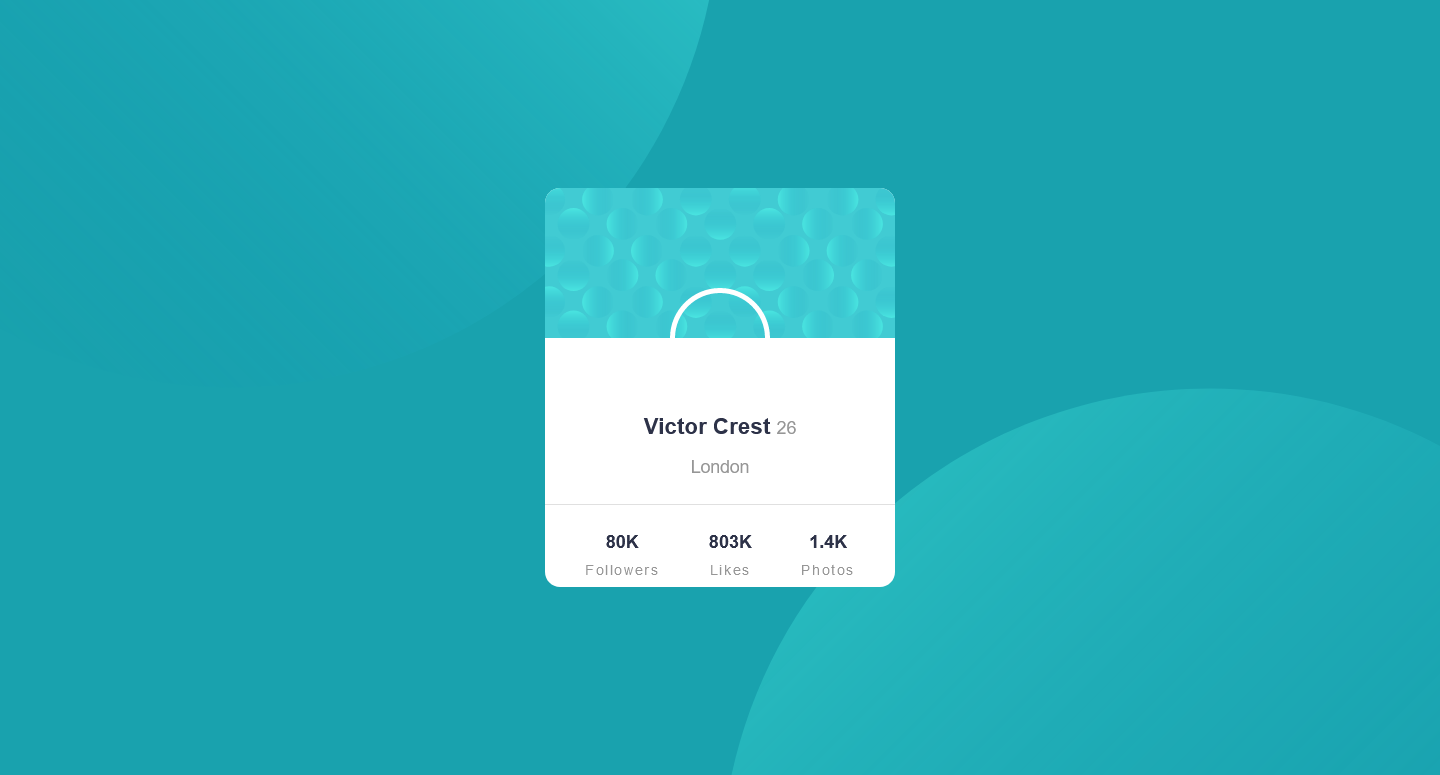
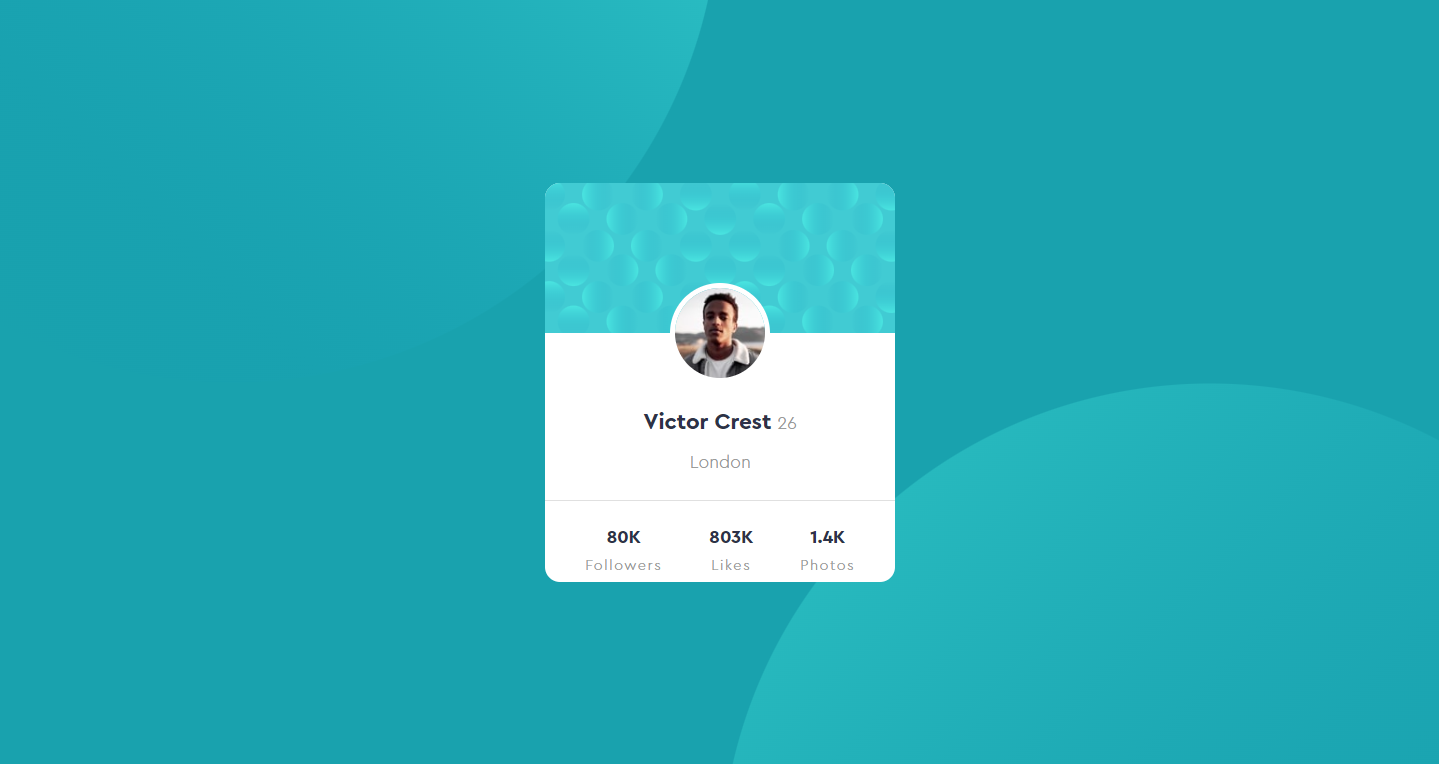
okk

Changed region(s): [[0.3975, 0.6924, 0.6115, 0.7827], [0.4587, 0.3613, 0.5504, 0.5118], [0.4281, 0.5419, 0.5504, 0.6322]]

diff --git a/index.html b/index.html
@@ -92,11 +92,11 @@
           
         </div>
 
-        <div class="row">
-          <div class="col-lg-4">
+        <div class="row about-flex">
+          <div class="col-lg-4 border-right">
             <img src="assets/img/profile picture.jpg" class="img-fluid rounded-circle" alt="">
           </div>
-          <div class="col-lg-8 pt-5 mt-5 pt-lg-0 content">
+          <div class="col-lg-8 pt-2 pt-lg-0 content">
             <h3>Web Designer &amp; Web Developer.</h3>
             <p class="fst-italic">
               Clients satisfaction is my first priority
@@ -214,7 +214,7 @@
               <img src="assets/img/p3.jpg" class="img-fluid" alt="">
               <div class="portfolio-info">
                 <h4>projects 4</h4>
-                <p>Protfolewo website</p>
+                <p>Education Website</p>
                 <div class="portfolio-links">
                   <!-- <a href="assets/img/portfolio/portfolio-4.jpg" data-gallery="portfolioGallery" class="portfolio-lightbox" title="Card 2"><i class="bx bx-plus"></i></a> -->
                   <a href="https://developer-tanvir.github.io/SuperMate/ " target="_blank" data-glightbox="" title="Portfolio Details"><i class="bx bx-link"></i></a>
@@ -230,17 +230,17 @@
 
           <div class="col-lg-4 col-md-6 portfolio-item filter-web  ">
             <div class="portfolio-wrap">
-              <img src="assets/img/protfolewo5.png" class="img-fluid" alt="">
+              <img src="assets/img/p5.jpg" class="img-fluid" alt="">
               <div class="portfolio-info">
                 <h4>projects 5</h4>
-                <p>contect form</p>
+                <p>Real Estate Websites</p>
                 <div class="portfolio-links">
                   <!-- <a href="assets/img/portfolio/portfolio-5.jpg" data-gallery="portfolioGallery" class="portfolio-lightbox" title="Web 2"><i class="bx bx-plus"></i></a> -->
-                  <a href=" https://developer-tanvir.github.io/glass-contact-form/" target="_blank" class="" data-glightbox="" title="Portfolio Details"><i class="bx bx-link"></i></a>
+                  <a href=" https://developer-tanvir.github.io/ABAgency/" target="_blank" class="" data-glightbox="" title="Portfolio Details"><i class="bx bx-link"></i></a>
                 </div>
                 <div class="link">
-                  <div class="code"><a target="_blank" href="https://github.com/Developer-Tanvir/food-website-Resto">Code</a></div>
-                  <div class="live-link"> <a target="_blank" href="https://developer-tanvir.github.io/food-website-Resto/">Live Links</a> </div>
+                  <div class="code"><a target="_blank" href="https://github.com/Developer-Tanvir/ABAgency">Code</a></div>
+                  <div class="live-link"> <a target="_blank" href="https://developer-tanvir.github.io/ABAgency/">Live Links</a> </div>
 
                 </div>
               </div>
@@ -249,17 +249,17 @@
 
           <div class="col-lg-4 col-md-6 portfolio-item filter-card  ">
             <div class="portfolio-wrap">
-              <img src="assets/img/protfolewo7(1).png" class="img-fluid" alt="">
+              <img src="assets/img/p6.jpg" class="img-fluid" alt="">
               <div class="portfolio-info">
                 <h4>projects 6</h4>
-                <p>food</p>
+                <p>agency Websites</p>
                 <div class="portfolio-links">
                   <!-- <a href="assets/img/portfolio/portfolio-7.jpg" data-gallery="portfolioGallery" class="portfolio-lightbox" title="Card 1"><i class="bx bx-plus"></i></a> -->
-                  <a href="https://developer-tanvir.github.io/food-blog/" target="_blank" class="" data-glightbox="" title="Portfolio Details"><i class="bx bx-link"></i></a>
+                  <a href="https://developer-tanvir.github.io/Mpgrk/" target="_blank" class="" data-glightbox="" title="Portfolio Details"><i class="bx bx-link"></i></a>
                 </div>
                 <div class="link">
-                  <div class="code"><a target="_blank" href="https://github.com/Developer-Tanvir/food-website-Resto">Code</a></div>
-                  <div class="live-link"> <a target="_blank" href="https://developer-tanvir.github.io/food-website-Resto/">Live Links</a> </div>
+                  <div class="code"><a target="_blank" href="https://github.com/Developer-Tanvir/Mpgrk">Code</a></div>
+                  <div class="live-link"> <a target="_blank" href="https://developer-tanvir.github.io/Mpgrk/">Live Links</a> </div>
 
                 </div>
               </div>
@@ -329,8 +329,8 @@
             <div class="portfolio-wrap">
               <img src="assets/img/5chalinges/chalinges1.io.png" class="img-fluid" alt="">
               <div class="portfolio-info">
-                <h4>Projects 1</h4>
-                <p>Hosting website</p>
+                <h4>Challenge 1</h4>
+                <!-- <p>Hosting website</p> -->
                 <div class="portfolio-links">
                   <!-- <a href="assets/img/portfolio/portfolio-1.jpg" data-gallery="portfolioGallery" class="portfolio-lightbox" title="App 1"><i class="bx bx-plus"></i></a> -->
                   <a href="https://developer-tanvir.github.io/challenges1/" target="_blank" class="" data-glightbox="" title="Portfolio Details"><i class="bx bx-link"></i></a>
@@ -343,8 +343,8 @@
             <div class="portfolio-wrap">
               <img src="assets/img/5chalinges/chalinges2.io(1).png" class="img-fluid" alt="">
               <div class="portfolio-info">
-                <h4>Projects 2</h4>
-                <p>Madecal Website</p>
+                <h4>Challenge 2</h4>
+                <!-- <p>Madecal Website</p> -->
                 <div class="portfolio-links">
                   <!-- <a href="assets/img/portfolio/portfolio-2.jpg" data-gallery="portfolioGallery" class="portfolio-lightbox" title="Web 3"><i class="bx bx-plus"></i></a> -->
                   <a href="https://developer-tanvir.github.io/challenges2/" target="_blank"class="" data-glightbox="" title="Portfolio Details"><i class="bx bx-link"></i></a>
@@ -357,8 +357,8 @@
             <div class="portfolio-wrap">
               <img src="assets/img/5chalinges/chalinges3.io.png" class="img-fluid" alt="">
               <div class="portfolio-info">
-                <h4>Projects 3</h4>
-                <p>May internatnoal trade Searvice</p>
+                <h4>Challenge 3</h4>
+                <!-- <p>May internatnoal trade Searvice</p> -->
                 <div class="portfolio-links">
                   <!-- <a href="assets/img/portfolio/portfolio-3.jpg" data-gallery="portfolioGallery" class="portfolio-lightbox" title="App 2"><i class="bx bx-plus"></i></a> -->
                   <a href="https://developer-tanvir.github.io/https-app.netlify.com-sites-lucid-edison-52d110-deploys-61accff0853fae834bc16e8d/" target="_blank" class="" data-glightbox="" title="Portfolio Details"><i class="bx bx-link"></i></a>
@@ -371,8 +371,8 @@
             <div class="portfolio-wrap">
               <img src="assets/img/5chalinges/chalinge4.io.png" class="img-fluid" alt="">
               <div class="portfolio-info">
-                <h4>projects 4</h4>
-                <p>Protfolewo website</p>
+                <h4>Challenge 4</h4>
+                <!-- <p>Protfolewo website</p> -->
                 <div class="portfolio-links">
                   <!-- <a href="assets/img/portfolio/portfolio-4.jpg" data-gallery="portfolioGallery" class="portfolio-lightbox" title="Card 2"><i class="bx bx-plus"></i></a> -->
                   <a href="https://developer-tanvir.github.io/challenges4/" target="_blank" data-glightbox="" title="Portfolio Details"><i class="bx bx-link"></i></a>
@@ -385,8 +385,8 @@
             <div class="portfolio-wrap">
               <img src="assets/img/5chalinges/challanges5.io.png" class="img-fluid" alt="">
               <div class="portfolio-info">
-                <h4>projects 5</h4>
-                <p>contect form</p>
+                <h4>Challenge 5</h4>
+                <!-- <p>contect form</p> -->
                 <div class="portfolio-links">
                   <!-- <a href="assets/img/portfolio/portfolio-5.jpg" data-gallery="portfolioGallery" class="portfolio-lightbox" title="Web 2"><i class="bx bx-plus"></i></a> -->
                   <a href=" https://developer-tanvir.github.io/challenges5/" target="_blank" class="" data-glightbox="" title="Portfolio Details"><i class="bx bx-link"></i></a>
@@ -399,8 +399,8 @@
             <div class="portfolio-wrap">
               <img src="assets/img/5chalinges/challinges6.io.png" class="img-fluid" alt="">
               <div class="portfolio-info">
-                <h4>projects 6</h4>
-                <p>food</p>
+                <h4>Challenge 6</h4>
+                <!-- <p>food</p> -->
                 <div class="portfolio-links">
                   <!-- <a href="assets/img/portfolio/portfolio-7.jpg" data-gallery="portfolioGallery" class="portfolio-lightbox" title="Card 1"><i class="bx bx-plus"></i></a> -->
                   <a href="https://developer-tanvir.github.io/Spotify/" target="_blank" class="" data-glightbox="" title="Portfolio Details"><i class="bx bx-link"></i></a>
@@ -608,7 +608,19 @@
             <div class="progress">
               <span class="skill">JavaScript <i class="val">55%</i></span>
               <div class="progress-bar-wrap">
-                <div class="progress-bar" role="progressbar" aria-valuenow="75" aria-valuemin="0" aria-valuemax="100"></div>
+                <div class="progress-bar" role="progressbar" aria-valuenow="55" aria-valuemin="0" aria-valuemax="100"></div>
+              </div>
+            </div>
+            <div class="progress">
+              <span class="skill">React js <i class="val">35%</i></span>
+              <div class="progress-bar-wrap">
+                <div class="progress-bar" role="progressbar" aria-valuenow="35" aria-valuemin="0" aria-valuemax="100"></div>
+              </div>
+            </div>
+            <div class="progress">
+              <span class="skill">Gsap animation <i class="val">45%</i></span>
+              <div class="progress-bar-wrap">
+                <div class="progress-bar" role="progressbar" aria-valuenow="45" aria-valuemin="0" aria-valuemax="100"></div>
               </div>
             </div>
 
@@ -617,23 +629,35 @@
           <div class="col-lg-6">
 
             <div class="progress">
-              <span class="skill">Bootstrap <i class="val">80%</i></span>
+              <span class="skill">Bootstrap <i class="val">85%</i></span>
+              <div class="progress-bar-wrap">
+                <div class="progress-bar" role="progressbar" aria-valuenow="85" aria-valuemin="0" aria-valuemax="100"></div>
+              </div>
+            </div>
+            <div class="progress">
+              <span class="skill">tailwind css <i class="val">80%</i></span>
               <div class="progress-bar-wrap">
                 <div class="progress-bar" role="progressbar" aria-valuenow="80" aria-valuemin="0" aria-valuemax="100"></div>
               </div>
             </div>
 
             <div class="progress">
-              <span class="skill">Scss <i class="val">80%</i></span>
+              <span class="skill">Scss <i class="val">70%</i></span>
               <div class="progress-bar-wrap">
-                <div class="progress-bar" role="progressbar" aria-valuenow="90" aria-valuemin="0" aria-valuemax="100"></div>
+                <div class="progress-bar" role="progressbar" aria-valuenow="70" aria-valuemin="0" aria-valuemax="100"></div>
               </div>
             </div>
 
             <div class="progress">
               <span class="skill">WordPress/CMS <i class="val">85%</i></span>
               <div class="progress-bar-wrap">
-                <div class="progress-bar" role="progressbar" aria-valuenow="55" aria-valuemin="0" aria-valuemax="100"></div>
+                <div class="progress-bar" role="progressbar" aria-valuenow="85" aria-valuemin="0" aria-valuemax="100"></div>
+              </div>
+            </div>
+            <div class="progress">
+              <span class="skill">Elementor Pro <i class="val">90%</i></span>
+              <div class="progress-bar-wrap">
+                <div class="progress-bar" role="progressbar" aria-valuenow="90" aria-valuemin="0" aria-valuemax="100"></div>
               </div>
             </div>
 

diff --git a/assets/css/style.css b/assets/css/style.css
@@ -190,7 +190,7 @@ h1, h2, h3, h4, h5, h6 {
 }
 .nav-menu a:hover, .nav-menu .active, .nav-menu .active:focus, .nav-menu li:hover > a {
   color: #fff;
-  background: #F9DE59;
+  background: #00B1D2;
 }
 .nav-menu a:hover span, .nav-menu .active span, .nav-menu .active:focus span, .nav-menu li:hover > a span {
   color: #fff;
@@ -294,7 +294,7 @@ h1, h2, h3, h4, h5, h6 {
   font-size: 2rem;
 }
 #hero .social-links a:hover i{
-  color: #F9DE59;
+  color: #00B1D2;
 }
 @media (max-width: 992px) {
   #hero {
@@ -350,7 +350,7 @@ section {
   display: block;
   width: 40px;
   height: 3px;
-  background: #F9DE59;
+  background: #00B1D2;
   bottom: 0;
   left: calc(50% - 20px);
 }
@@ -361,11 +361,23 @@ section {
 /*--------------------------------------------------------------
 # About
 --------------------------------------------------------------*/
+.rounded-circle {
+  border-radius: 50%!important;
+  max-width: 80%;
+  text-align: center;
+}
+.border-right{
+  border-right: 2px solid #45505b;
+}
 .about .content h3 {
   font-weight: 700;
   font-size: 26px;
   color: #728394;
-  padding-top: 1.5rem;
+  padding-top: 0.3rem;
+}
+.about-flex{
+  align-items: center;
+  justify-content: space-between;
 }
 .about .content ul {
   list-style: none;
@@ -406,7 +418,7 @@ section {
 	left: 50%;
 	transform: translateX(-50%);
 	font-size: 40px;
-	background: linear-gradient(-90deg, #F9DE59, blue);
+	background: linear-gradient(-90deg, #00B1D2, blue);
 	color: #fff;
 	border-radius: 50px;
 	display: inline-flex;
@@ -459,7 +471,7 @@ section {
   height: 10px;
   transition: 0.9s;
   
-  background-image: linear-gradient(-90deg, #F9DE59, blue)
+  background-image: linear-gradient(-90deg, #00B1D2, blue)
 }
 
 /*--------------------------------------------------------------
@@ -513,7 +525,7 @@ section {
   left: -9px;
   top: 0;
   background: #fff;
-  border: 2px solid #F9DE59;
+  border: 2px solid #00B1D2;
 }
 
 /*--------------------------------------------------------------
@@ -810,7 +822,7 @@ color: #45505b;
 }
 .services .iconbox-blue:hover .icon i {
   color: #fff;
-  background: linear-gradient(-90deg, #F9DE59, blue)00;
+  background: linear-gradient(-90deg, #00B1D2, blue)00;
   border: 3x solid #ddd;
 }
 .icon i {
